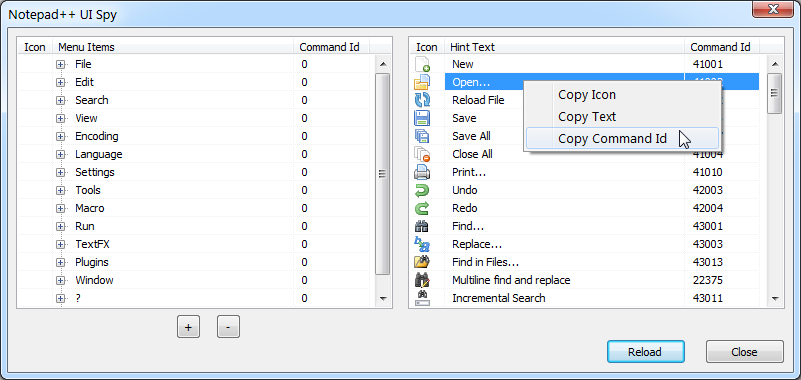
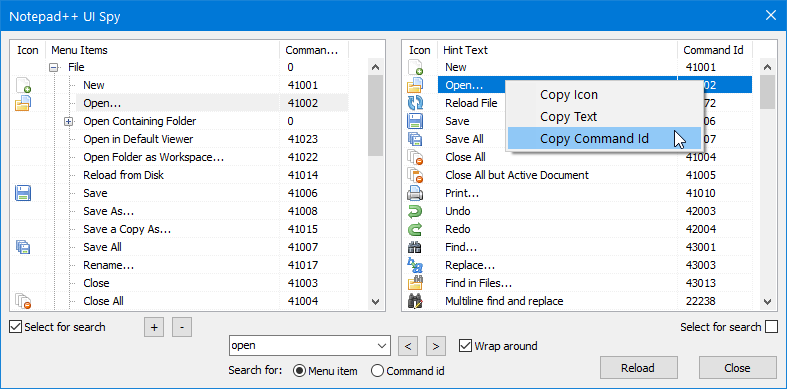
Released version 1.2

diff --git a/README.md b/README.md
@@ -2,7 +2,7 @@
 
 Builds for 32 and 64 bits Notepad++ installations available
 
-Author: Andreas Heim, 2018 - 2022
+Author: Andreas Heim, 2018 - 2023
 
 
 # Features
@@ -12,6 +12,10 @@ With this plugin you can explore the main menu structure and the toolbar of Note
 You can left-click on menu item and toolbar button entries to execute the related command. With a right-click to the items a context menu pops up where you can select to copy the item's icon, its text or its menu command id to the clipboard.
 
 Both the menu item tree and the toolbar button list provide full-text search. Start typing while one of them is focused to make the first matching item getting highlighted.
+
+For advanced searching in both trees you can use the search UI controls. Select the tree to search in by clicking on its header row or by checking the option box beneath the tree. The search term input field provides a search history.
+
+When pressing the ALT key, the UI shows underlined characters that can be pressed together with the ALT key to control the UI by keyboard. Additionally, when the search term input field has input focus, you can press ENTER to search forwards and CTRL+ENTER to search backwards.
 
 ![Main dialog](NppUISpy.png)
 
@@ -47,6 +51,11 @@ The following steps depend on the version of Notepad++ you use.
 
 
 # History
+
+v1.2 - February 2023
+- enhanced: Added advanced search capabilities for menu item text, toolbar button hint text and menu command id.
+- enhanced: Added improved keyboard control capabilities using accelerator keys.
+
 
 v1.1 - November 2022
 - fixed:    When plugin's dialog boxes are on screen but hidden by another application's window which has input focus, it is not possible to return to Notepad++ by clicking its taskbar icon.
